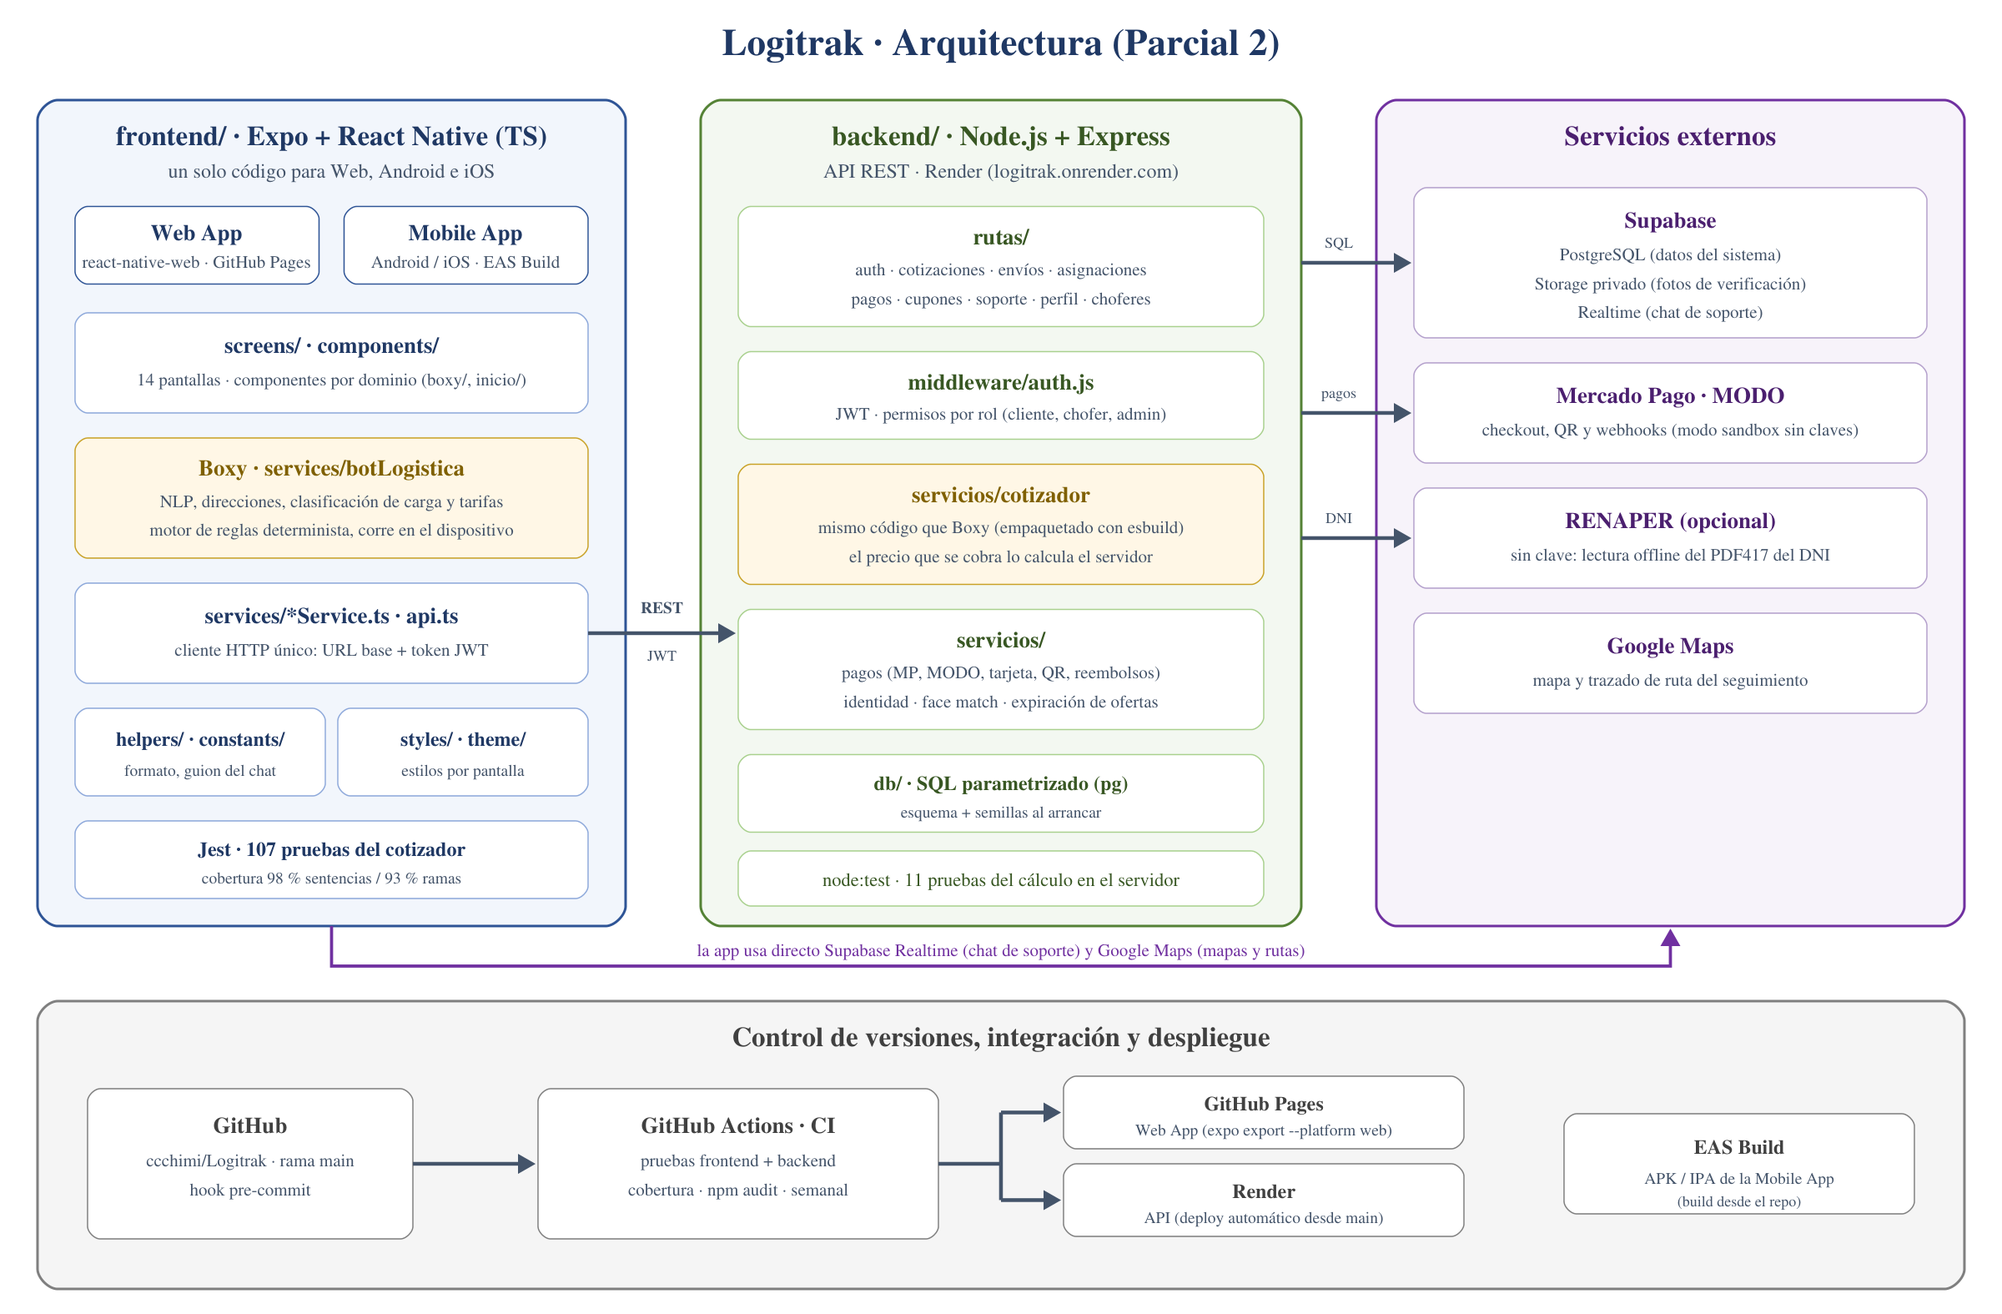
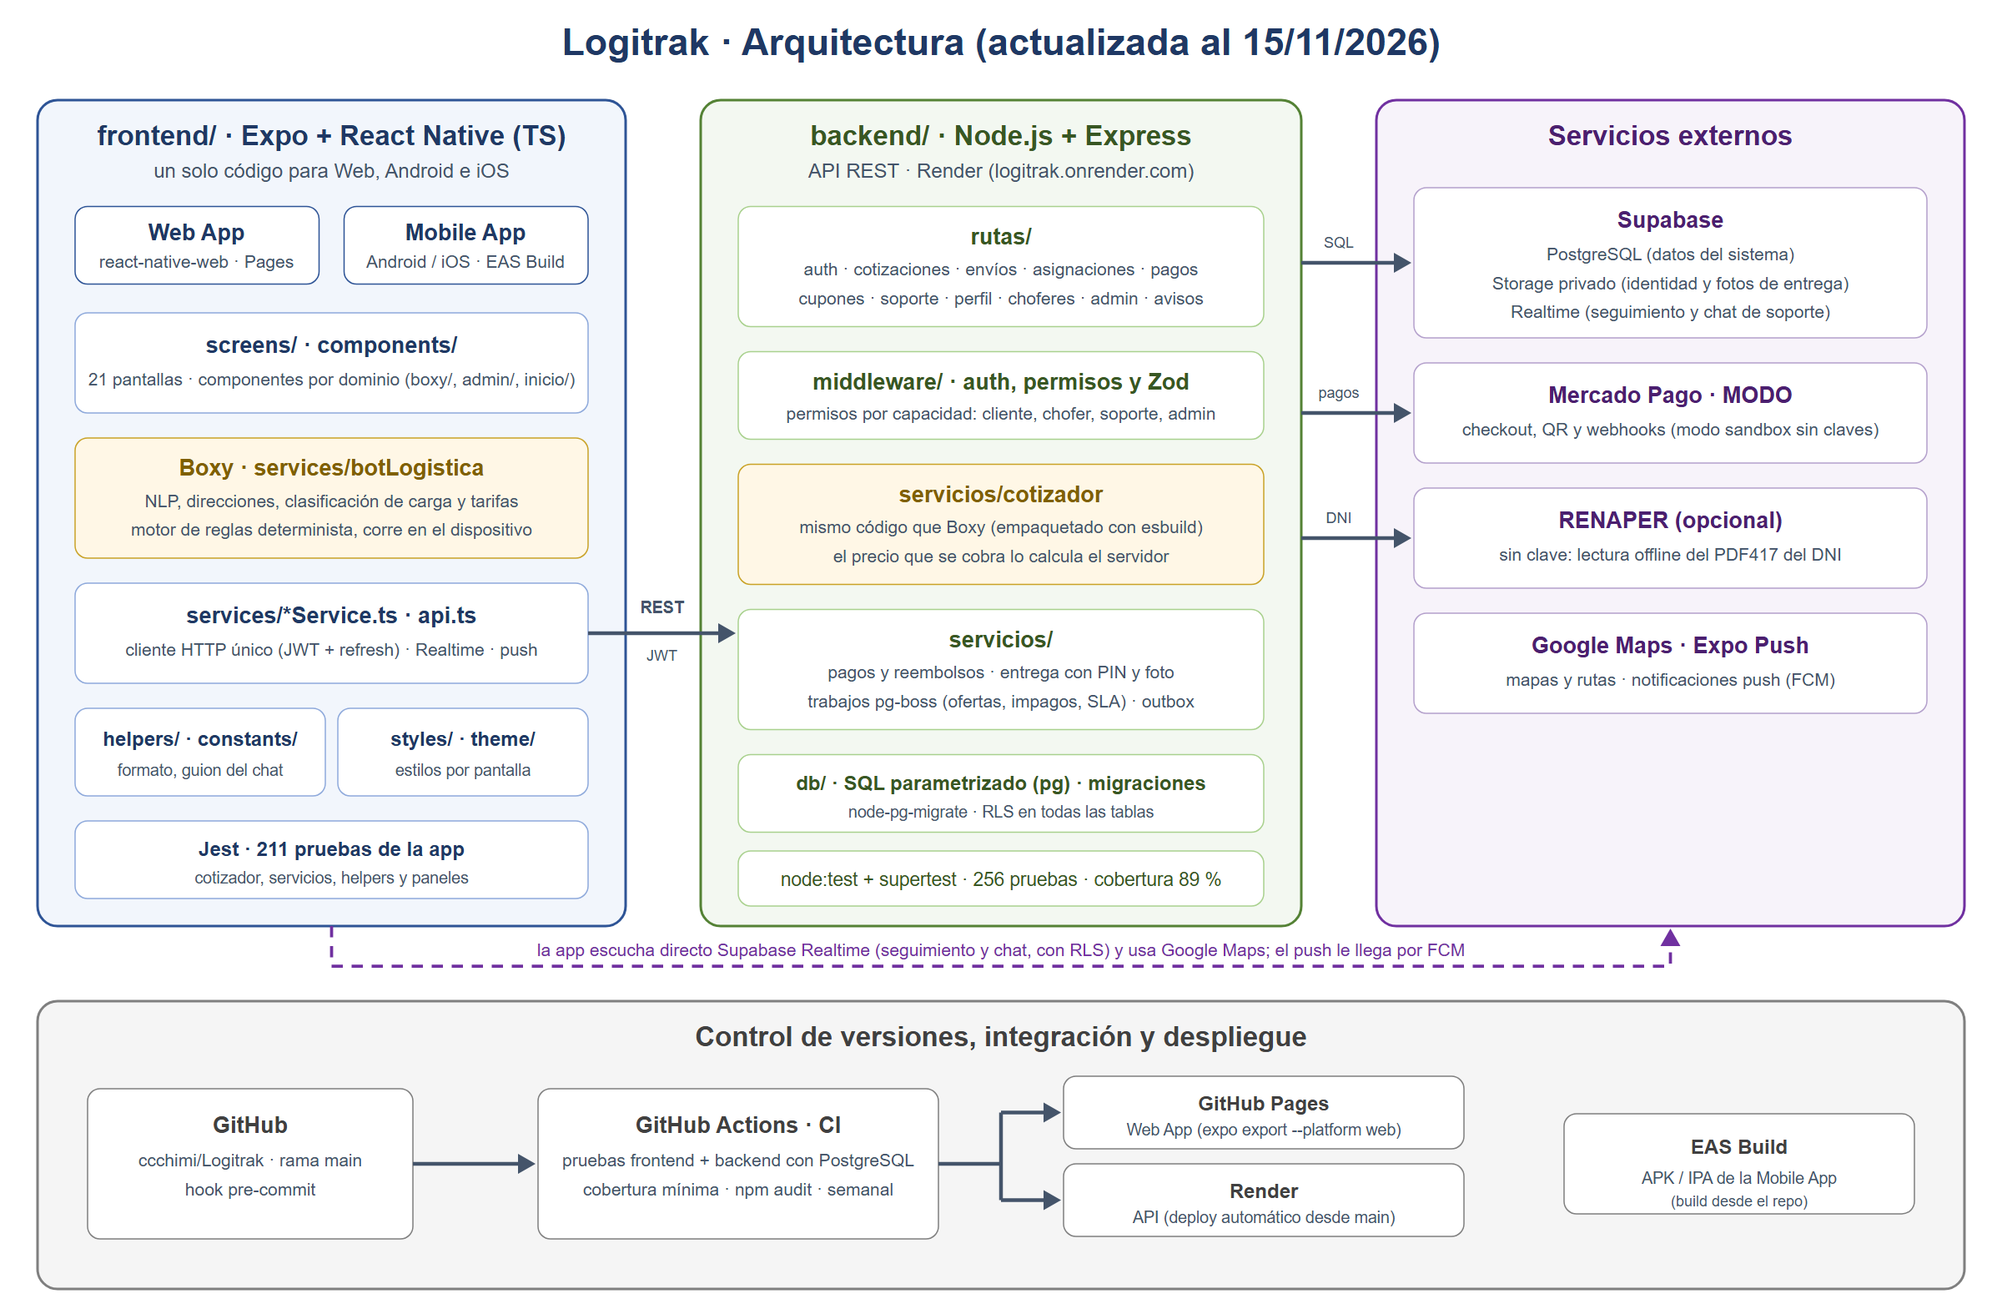
Informe técnico del Parcial 2: actualizado al estado del 15/11/2026
- Descripción, módulos y calidad: 21 pantallas, 13 grupos de rutas, rol
  soporte, tiempo real, push, entrega con PIN y 467 pruebas automáticas.
- Decisiones nuevas: Zod, migraciones, pg-boss, outbox, Realtime + RLS,
  push con FCM, pino + Sentry y refresh token.
- Cambios respecto al diseño: RF11 y CU-14 resueltos, RF17 con gestión de
  roles, y entrega con PIN, impagos y eliminación de cuenta.
- Diagrama de arquitectura actualizado.

diff --git a/docs/informe-tecnico-parcial-2.md b/docs/informe-tecnico-parcial-2.md
@@ -3,6 +3,14 @@
 > Logitrak · entrega del repositorio de código (Web App + Mobile App). La versión
 > en Word para entregar se genera a partir de este archivo.
 
+**Proyecto:** Logitrak, plataforma de logística de última milla (Web App + Mobile App).
+
+**Escuela Da Vinci** · Analista en Sistemas · Docente: Emmanuel Bruno · 2026
+
+**Integrantes:** Franco Martin Schimizzi, Claudio Kevin Oturakdjian, Melina Rocio Martins, Candela Analia Nuñez
+
+**Versión actualizada:** 15 de noviembre de 2026. La entrega original es del 2 de noviembre; esta versión refleja el estado actual del repositorio.
+
 ## Enlaces de la entrega
 
 | Recurso | Dirección |
@@ -16,29 +24,31 @@ La Mobile App se ejecuta con Expo Go (`npm start` en `frontend/`) o con un build
 
 ## 1. Descripción técnica general del avance
 
-Logitrak pasó del diseño del Parcial 1 a un sistema que funciona de punta a punta. Un cliente puede registrarse, cotizar un envío conversando con Boxy, confirmarlo, pagarlo y seguirlo en el mapa. Un chofer verificado ve los envíos compatibles con su vehículo, toma uno y marca los hitos del viaje. El administrador supervisa los envíos y puede reembolsarlos o archivarlos.
+Logitrak pasó del diseño del Parcial 1 a un sistema que funciona de punta a punta y está desplegado. Un cliente puede registrarse, cotizar un envío conversando con Boxy, confirmarlo, pagarlo y seguirlo en el mapa en tiempo real, con avisos dentro de la app y notificaciones push. Un chofer verificado ve los envíos compatibles con su vehículo, toma uno, marca los hitos del viaje y cierra la entrega con el PIN que le da quien recibe y una foto de comprobante. El equipo de soporte atiende consultas y supervisa la operación; el administrador además reembolsa, archiva envíos y asigna los roles de los usuarios.
 
 El repositorio está dividido en dos partes que se despliegan por separado:
 
-- **`frontend/`**: aplicación en **Expo + React Native con TypeScript**. Con un mismo código se compila la **Mobile App** (Android e iOS) y la **Web App** (con `react-native-web`). Tiene 14 pantallas organizadas por capas: `screens/`, `components/`, `services/`, `helpers/`, `constants/`, `styles/` y `navigation/`.
-- **`backend/`**: **API REST en Node.js + Express** sobre **PostgreSQL** (Supabase). Tiene 11 grupos de rutas (autenticación, cotizaciones, envíos, asignaciones, pagos, cupones, soporte, perfil, choferes, vehículos y administración), autenticación con JWT y permisos por rol.
+- **`frontend/`**: aplicación en **Expo + React Native con TypeScript**. Con un mismo código se compila la **Mobile App** (Android e iOS) y la **Web App** (con `react-native-web`). Tiene 21 pantallas organizadas por capas: `screens/`, `components/`, `services/`, `helpers/`, `constants/`, `styles/` y `navigation/`.
+- **`backend/`**: **API REST en Node.js + Express** sobre **PostgreSQL** (Supabase). Tiene 13 grupos de rutas (autenticación, cotizaciones, envíos, asignaciones, pagos, cupones, soporte, perfil, choferes, vehículos, notificaciones, recorridos y administración), autenticación con JWT y refresh token, permisos por capacidad para cuatro roles, migraciones versionadas y trabajos en segundo plano.
 
 Estado de los módulos:
 
 | Módulo | Estado |
 |---|---|
-| Registro, login, recuperación de contraseña y roles (cliente, chofer, admin) | Implementado |
+| Registro, login, recuperación de contraseña y roles (cliente, chofer, soporte, admin) | Implementado; sesiones con refresh token revocable |
 | Cotización con Boxy (direcciones, tipo de carga, vehículo y precio desglosado) | Implementado; el precio lo valida el servidor |
 | Creación de envíos y código de seguimiento `TRK-AAAA-NNNNNN` | Implementado |
 | Pagos: Mercado Pago (checkout, QR, webhook), MODO y tarjeta | Implementado; sin claves corre en modo sandbox |
 | Asignación al primer chofer compatible que acepta, con vencimiento y reembolso automático | Implementado |
-| Seguimiento con mapa, ruta, línea de tiempo, chofer y vehículo | Implementado (actualización periódica) |
+| Seguimiento con mapa, ruta, línea de tiempo, chofer y vehículo | Implementado; en tiempo real con Supabase Realtime |
 | Postulación de chofer y verificación de identidad (DNI, selfie, prueba de vida opcional) | Implementado |
-| Historial, perfil y cupones por SLA incumplido | Implementado |
+| Historial, perfil, eliminación de cuenta y cupones por SLA incumplido | Implementado; el SLA lo controla el servidor |
+| Notificaciones: bandeja en la app y push en el teléfono | Implementado en Android; iOS pendiente |
+| Entrega con PIN del receptor y foto de comprobante | Implementado (nuevo en esta etapa) |
 | Soporte: tickets, chat en tiempo real y bot de soporte | Implementado (no estaba en el diseño) |
-| Panel de administración | Parcial: métricas, reembolso y archivo de envíos; falta gestionar usuarios |
+| Panel de administración y rol soporte | Implementado: métricas, reembolso y archivo de envíos, listado de usuarios con filtros y cambio de rol. Falta editar perfiles ajenos |
 
-**Calidad.** Hay 118 pruebas automáticas: 107 del cotizador en Jest (98 % de cobertura de sentencias) y 11 del cálculo de precio en el servidor (`node:test`). Las dos baterías corren en **GitHub Actions** en cada push a `main`, junto con una auditoría de dependencias. Un segundo workflow publica la Web App en GitHub Pages.
+**Calidad.** Hay 467 pruebas automáticas: 211 de la app en Jest y 256 del backend con `node:test`, entre ellas pruebas de integración de todas las rutas con `supertest` contra un PostgreSQL real. Todas corren en **GitHub Actions** en cada push a `main`, junto con una auditoría de dependencias, y la CI falla si la cobertura del backend baja del 85 % de líneas (hoy está en 89,6 %). Un segundo workflow publica la Web App en GitHub Pages.
 
 ## 2. Decisiones tecnológicas tomadas
 
@@ -48,12 +58,18 @@ Estado de los módulos:
 | **Node.js + Express** para la API | Spring Boot, Django | El mismo lenguaje en todo el proyecto, y así el backend puede reutilizar el cotizador de la app sin reescribirlo. |
 | **PostgreSQL en Supabase** | MongoDB, MySQL local | Datos relacionales (usuarios, envíos, pagos, asignaciones) con transacciones y bloqueos para que dos choferes no tomen el mismo envío. Supabase suma Storage privado y Realtime en el plan gratuito. |
 | **SQL parametrizado con `pg`**, sin ORM | Prisma, Sequelize | Control total de las consultas con bloqueo (`FOR UPDATE`) y nada de superficie para inyección SQL. |
-| **JWT + bcrypt + rate limiting** | Sesiones en servidor, Supabase Auth | API sin estado, fácil de consumir desde web y mobile; roles dentro del token. |
+| **Zod** para validar las entradas en el servidor | Validación manual en cada ruta | Un esquema por ruta, con errores por campo: nada sin validar llega a la base. |
+| **Migraciones versionadas** con node-pg-migrate | Un único script SQL que se reaplica al arrancar | Cada cambio de esquema queda registrado, se aplica una sola vez y se puede revertir. |
+| **pg-boss** para trabajos en segundo plano | setInterval en la API, cron externo, Redis + BullMQ | Vence ofertas y pedidos impagos, revisa el SLA y despacha notificaciones usando la misma base PostgreSQL: no suma infraestructura, sobrevive a los reinicios y reintenta con espera creciente. |
+| **Patrón outbox** para avisos y push | Enviar el aviso dentro de la misma petición | El aviso se guarda en la misma transacción que el cambio: no se pierde si algo falla, ni se avisa algo que no ocurrió. |
+| **Supabase Realtime + RLS** para el seguimiento y **Expo Notifications + FCM** para push | WebSockets propios; consultar la API cada pocos segundos | Tiempo real sin un servidor extra; las políticas RLS hacen que cada usuario lea solo sus envíos. |
+| **pino + Sentry** y chequeo de salud (`/api/salud`) | console.log | Logs estructurados por pedido y un chequeo que prueba la conectividad real con la base y los servicios externos. |
+| **Token de acceso corto + refresh token revocable**, bcrypt y rate limiting | Sesiones en servidor, Supabase Auth | API sin estado y fácil de consumir desde web y mobile; el refresh token permite cerrar sesiones, por ejemplo al cambiar el rol de una cuenta. |
 | **Boxy como motor de reglas** que corre en el dispositivo | Un modelo de lenguaje (LLM) externo | El precio tiene que ser explicable y reproducible: ante la misma entrada da siempre lo mismo y no puede inventar una tarifa. Además responde al instante y no manda domicilios a terceros. |
 | **El servidor recalcula el precio** con el mismo código de Boxy (empaquetado con esbuild) | Confiar en el precio que manda la app | Evita que un cliente modifique el pedido y pague menos (defecto DEF-02, corregido en esta etapa). |
 | **Mercado Pago y MODO** con modo sandbox | Solo Mercado Pago | Son los medios de pago más usados en Argentina. El modo sandbox deja probar todo el circuito sin cobrar. |
 | **Render** (API), **GitHub Pages** (Web App) y **EAS Build** (Mobile App) | Un VPS propio | Despliegue automático desde GitHub y planes gratuitos suficientes para la etapa académica. |
-| **Jest**, **`node:test`** y **GitHub Actions** | Pruebas manuales | Pruebas de regresión automáticas en cada cambio (ver TP de Calidad de Software). |
+| **Jest, node:test + supertest y GitHub Actions** | Pruebas manuales | Pruebas de regresión y de integración en cada cambio, con cobertura mínima exigida por la CI (ver TP de Calidad de Software). |
 
 ## 3. Cambios respecto al diseño inicial
 
@@ -62,28 +78,32 @@ Estado de los módulos:
 | RF04: Boxy como "IA" que recomienda el pedido | Motor de reglas con procesamiento de lenguaje: entiende direcciones, pesos con unidades y respuestas de sí/no, y clasifica la carga | Un precio no puede depender de un modelo que puede equivocarse o variar. Las reglas se pueden probar y explicar. |
 | RF10: asignación de chofer automática mediante IA | El envío pagado se ofrece a todos los choferes con vehículo compatible y lo toma el primero que acepta. Si nadie lo toma en 5 minutos, se cancela y se reembolsa. | Es el modelo de las apps de movilidad: más simple, justo y sin una decisión central opaca. La asignación inteligente queda como evolución (ver `docs/ROADMAP.md`). |
 | RF06: pagos con Mercado Pago | Mercado Pago, MODO, tarjeta y QR, con reembolsos | Más medios de pago y la necesidad de devolver el dinero cuando ningún chofer toma el envío. |
-| RF11: seguimiento en tiempo real | El mapa y la línea de tiempo se actualizan consultando la API cada pocos segundos | El tiempo real por push ya funciona en el chat de soporte; pasarlo al seguimiento está planificado. |
+| RF11: seguimiento en tiempo real | El seguimiento se actualiza en tiempo real con Supabase Realtime (con una consulta de respaldo cada 60 s) y cada cambio llega como notificación push | Cumplido en esta etapa: antes se consultaba la API cada pocos segundos. |
 | RF13: comunicación entre cliente y conductor | El cliente ve el nombre, el teléfono, el identificador y el vehículo del chofer. El chat es con soporte (bot + administrador), no directo con el chofer. | Se priorizó un canal de soporte supervisado. El chat directo queda pendiente. |
 | RF09: cancelar envíos desde la app | La cancelación es automática si ningún chofer toma el envío, y el administrador puede reembolsar o archivar | Falta el botón de cancelación del lado del cliente. |
 | RF14 (emails con comprobante) y RF16 (valoraciones) | No implementados | Se priorizó el circuito principal (cotizar, pagar, asignar, seguir). Quedan para la siguiente etapa. |
-| RF17: panel de administración | El rol admin ve todos los envíos y métricas, reembolsa, archiva y atiende tickets de soporte | Falta la gestión de usuarios y choferes desde la interfaz. |
+| RF17: panel de administración | El personal ve todos los envíos y las métricas; el admin reembolsa, archiva, lista usuarios con filtros y cambia roles. Se sumó el rol soporte, que atiende consultas sin acceso a reembolsos, roles ni documentos de identidad | Falta editar desde la interfaz los perfiles de otros usuarios. |
 | Panel del chofer con interruptor Online/Offline | La consola del chofer muestra si está disponible y las ofertas compatibles; no hay un interruptor manual | Se simplificó: el chofer recibe ofertas mientras tiene la consola abierta. |
 | Postulación de chofer solo en mobile | También se puede iniciar desde la web; la prueba de vida y el escaneo funcionan mejor en el teléfono | Para no bloquear el alta desde una computadora. |
-| CU-14: compensación por SLA a cargo del sistema | El cupón se emite cuando vence el plazo, pero el disparo hoy está en la app | Deuda técnica registrada: pasarlo a un proceso del servidor. |
+| CU-14: compensación por SLA a cargo del sistema | Un trabajo del servidor revisa cada envío pago y acredita un cupón del 10 % si el chofer no llega al retiro en el plazo que prometió la cotización | Resuelto: antes el disparo estaba en la app y la regla no coincidía con lo prometido. |
 | — | Módulo de soporte con tickets, chat en tiempo real (Supabase Realtime) y bot | Surgió en el desarrollo para atender reclamos sin salir de la app. |
 | — | El servidor recalcula y valida todas las cotizaciones | Hallazgo de seguridad en las pruebas (DEF-02). |
+| — | Entrega con el PIN que tiene quien recibe y una foto de comprobante | Antes un envío podía marcarse como entregado sin pruebas, incluso por el propio cliente. |
+| — | Los pedidos sin pagar vencen a los 5 minutos y se eliminan | Evita pedidos pendientes para siempre que ocupan a los choferes. |
+| — | Eliminación de cuenta con anonimización y documentos de identidad en un bucket privado | Derecho de supresión (Ley 25.326) y protección de los datos personales. |
 
 ## 4. Diagrama actualizado de arquitectura
 
-![Figura 1: Arquitectura de Logitrak en el Parcial 2](img/arquitectura-parcial-2.png)
+![Figura 1: Arquitectura de Logitrak (actualizada al 15/11/2026)](img/arquitectura-parcial-2.png)
 
-La arquitectura es cliente-servidor en capas. La app (web y mobile) no accede a la base de datos para operar: todo pasa por la API REST con un token JWT. El backend es el único que habla con PostgreSQL, con las pasarelas de pago y con RENAPER. Las dos excepciones son de lectura: el mapa de Google Maps y el chat de soporte en tiempo real, que la app escucha directamente en Supabase con un token de solo lectura firmado por el backend. Boxy existe en los dos lados con el mismo código: en la app para responder al instante y en el servidor para decidir el precio que se cobra.
+La arquitectura es cliente-servidor en capas. La app (web y mobile) no accede a la base de datos para operar: todo pasa por la API REST con un token JWT. El backend es el único que escribe en PostgreSQL y el único que habla con las pasarelas de pago, RENAPER y el servicio de push. Dentro del backend, los trabajos en segundo plano (pg-boss) vencen ofertas y pedidos impagos, revisan el SLA y despachan las notificaciones registradas en el outbox. Las excepciones son de lectura: el mapa de Google Maps y Supabase Realtime, por el que la app escucha el seguimiento de su envío y el chat de soporte con un token de solo lectura firmado por el backend; las políticas RLS hacen que cada usuario vea solo lo suyo. Boxy existe en los dos lados con el mismo código: en la app para responder al instante y en el servidor para decidir el precio que se cobra y el plazo de retiro que se compensa.
 
 ## 5. Responsabilidades individuales
 
 | Integrante | Rol | Responsabilidades en esta etapa |
 |---|---|---|
-| Franco Martin Schimizzi | Desarrollador Backend | API REST en Express, modelo de datos en PostgreSQL/Supabase, autenticación con JWT y roles, pagos y reembolsos (Mercado Pago, MODO), asignación y vencimiento de envíos, verificación de identidad del lado del servidor, despliegue en Render, integración continua y corrección de DEF-02. |
+| Franco Martin Schimizzi | Desarrollador Backend | API REST en Express, modelo de datos en PostgreSQL/Supabase con migraciones versionadas, autenticación con JWT, refresh token y permisos por rol (incluido soporte), pagos y reembolsos (Mercado Pago, MODO), asignación y vencimiento de envíos, trabajos en segundo plano, outbox, tiempo real, notificaciones push y RLS, entrega con PIN y foto, regla de SLA, verificación de identidad del lado del servidor, logs y chequeo de salud, pruebas de integración, despliegue en Render, integración continua y corrección de DEF-02. |
 | Melina Rocio Martins | Desarrolladora Frontend / UX-UI | Prototipos web y mobile, sistema visual (paleta, tipografías, estilos), landing, panel del cliente, chat con Boxy, seguimiento y perfil. |
-| Claudio Kevin Oturakdjian | Desarrollador Frontend / QA tester | Pantallas del chofer, pago e historial, flujo de postulación y escaneo de identidad, pruebas unitarias del cotizador, plan de pruebas y verificación de los circuitos en web y mobile. |
+| Claudio Kevin Oturakdjian | Desarrollador Frontend / QA tester | Pantallas del chofer, pago e historial, flujo de postulación y escaneo de identidad, pruebas unitarias del cotizador, plan de pruebas y verificación de los circuitos en web y mobile. En esta etapa sumó además el panel de administración de pedidos y usuarios, el rediseño con navegación por rol, el tema claro y los recursos visuales compartidos. |
 | Candela Analia Nuñez | Gestión del proyecto | Planificación y seguimiento de tareas, relevamiento de requerimientos y casos de uso, coordinación de entregas, documentación (READMEs, informes) y control de cambios respecto al diseño. |
+
